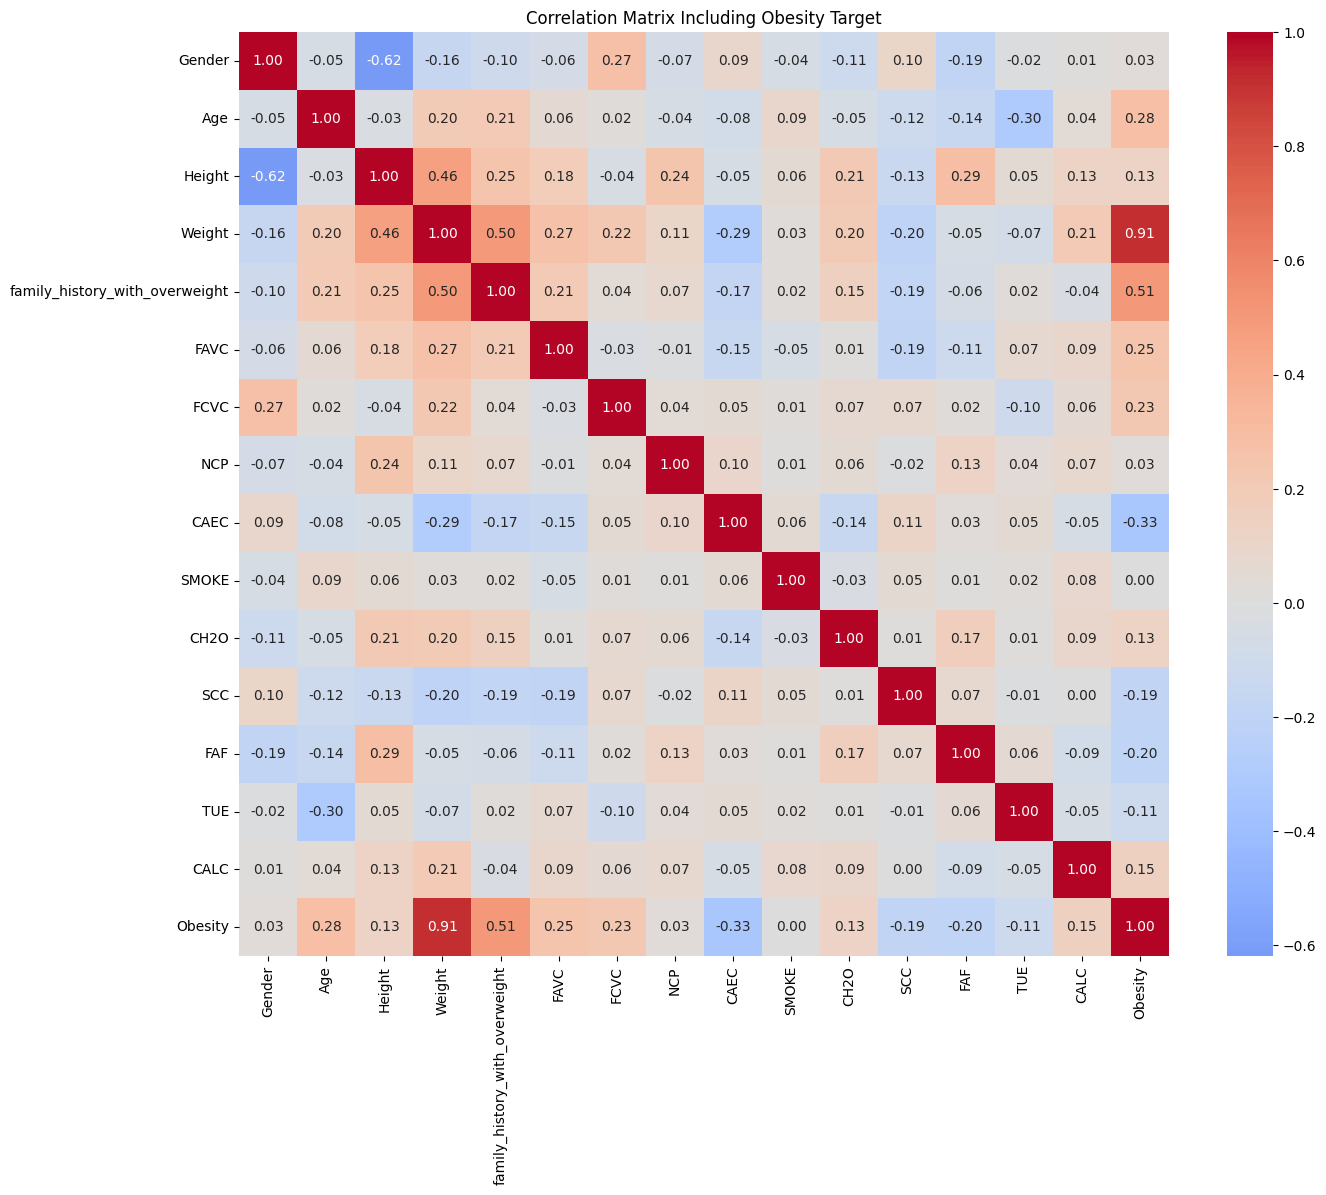
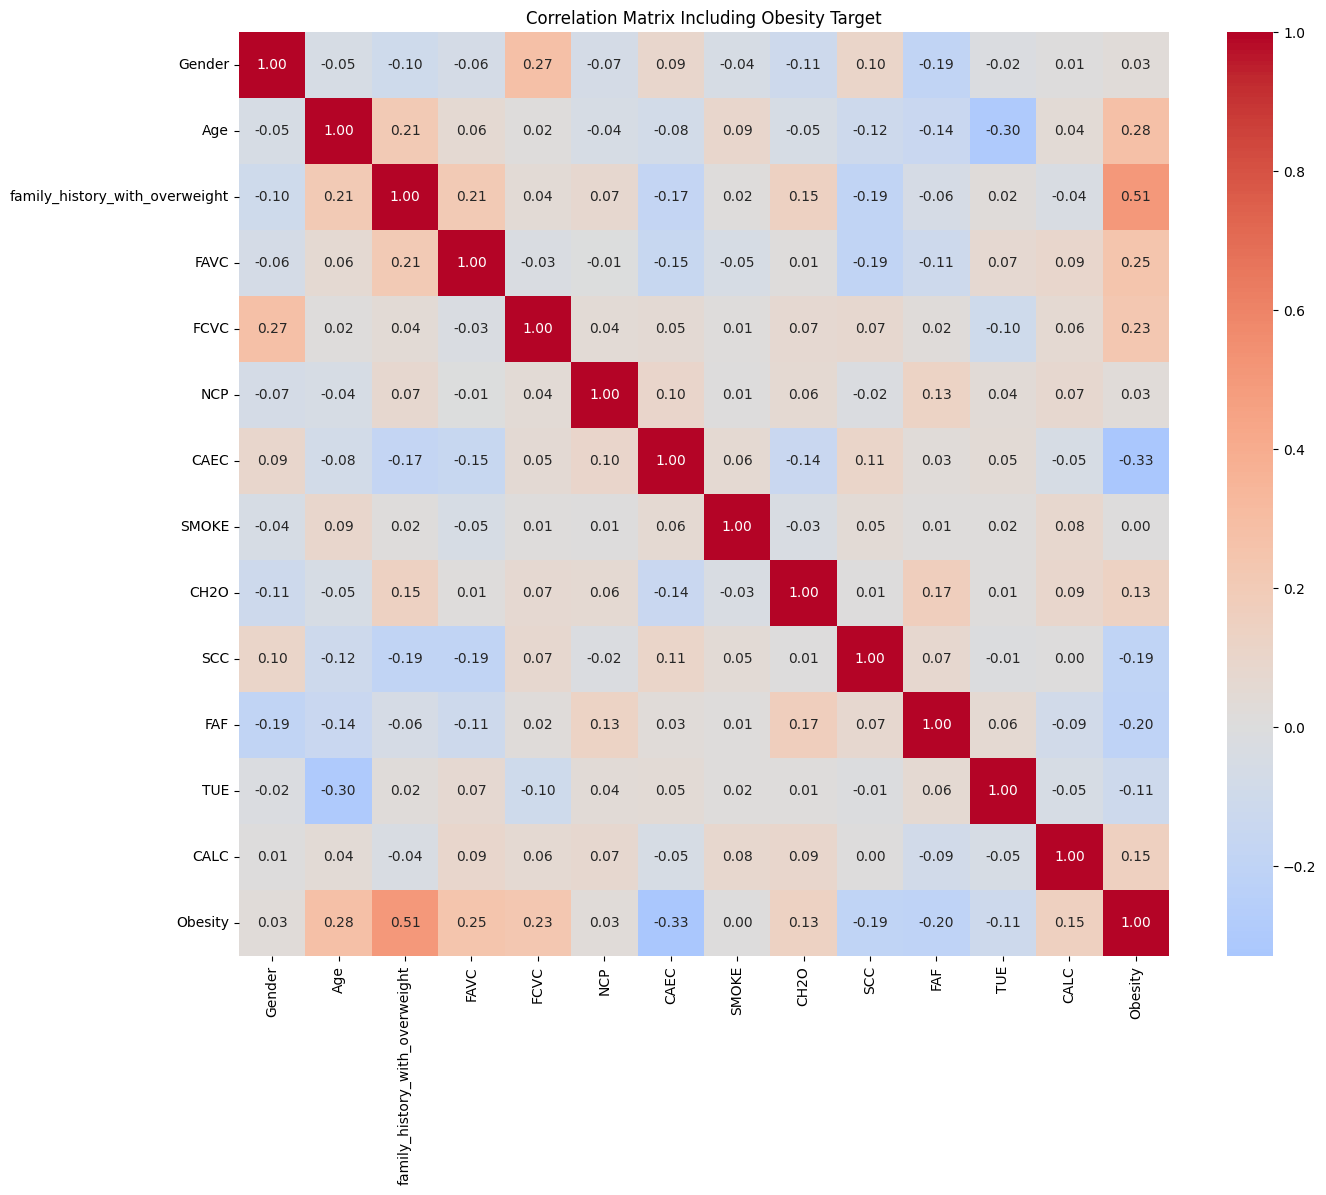
Removed the weight/height features from the EDA: 1) modified exploratory_data_analysis.ipynb. 2) Ran this notebook to replot correlation.png and pairplot.png. 3) Modified exploratory_data_analysis_documentation.md

diff --git a/docs/exploratory_data_analysis_documentation.md b/docs/exploratory_data_analysis_documentation.md
@@ -6,6 +6,8 @@
 
 This dataset contains survey data collected from individuals in Mexico, Peru, and Colombia to estimate obesity levels based on eating habits and physical condition. It includes 2,111 rows and 17 columns with demographic, dietary, and lifestyle features, along with a categorical target variable for obesity levels.
 
+You can see more details of the EDA and more plots in notebooks/exploratory_data_analysis.ipynb.
+
 ### Dataset Details
 
 This dataset was introduced by **Palechor & de la Hoz Manotas (2019)** and published in *Data in Brief*.
@@ -54,14 +56,16 @@ Obesity_Type_II        297
 Obesity_Type_III       324
 ```
 
+### Milestone 1 feedback.
+
+The model relied almost entirely on weight (See milestone1.pdf in milestone/). The model's utility was unclear because a simple BMI rule could categorize a person. We took that feedback into account and decided to remove the weight and the height features. The project switch to an early warning system for obesity based only on lifestyle. The BMI rule only detect obesity after the weight gain has occurred. The goal of our approach is to detect persons at risk before the weight gain.
+
 ### Feature overview
 
 | Variable | Type | Description |
 |----------|------|-------------|
 | Gender | Categorical (binary) | Male / Female |
 | Age | Continuous | Age in years |
-| Height | Continuous | Height in meters |
-| Weight | Continuous | Weight in kilograms |
 | family_history_with_overweight | Binary | Family member with overweight history |
 | FAVC | Binary | Frequent consumption of high-caloric food |
 | FCVC | Integer | Frequency of vegetable consumption (1–3) |
@@ -99,15 +103,13 @@ All numerical values fall within plausible ranges. No negative values detected.
 
 ![Correlation Matrix](./figures/correlation.png)
 
-Weight is strongly correlated with the target, as expected. Height and Age show moderate correlations. Lifestyle features (FCVC, FAF, CH2O) show weaker but meaningful correlations with obesity level.
-
+After removing weight and height, family history of overweight (0.51) has become the predominant factor.
 ---
 
 ## 5. Pairplot
 
 ![Pairplot](./figures/pairplot.png)
 
-The pairplot confirms that Weight and Height are the most visually separating features across obesity classes. Lifestyle features show more overlap between classes, suggesting they contribute incrementally rather than being individually decisive.
 
 ## 6. Bias, Risks, and Limitations
 
